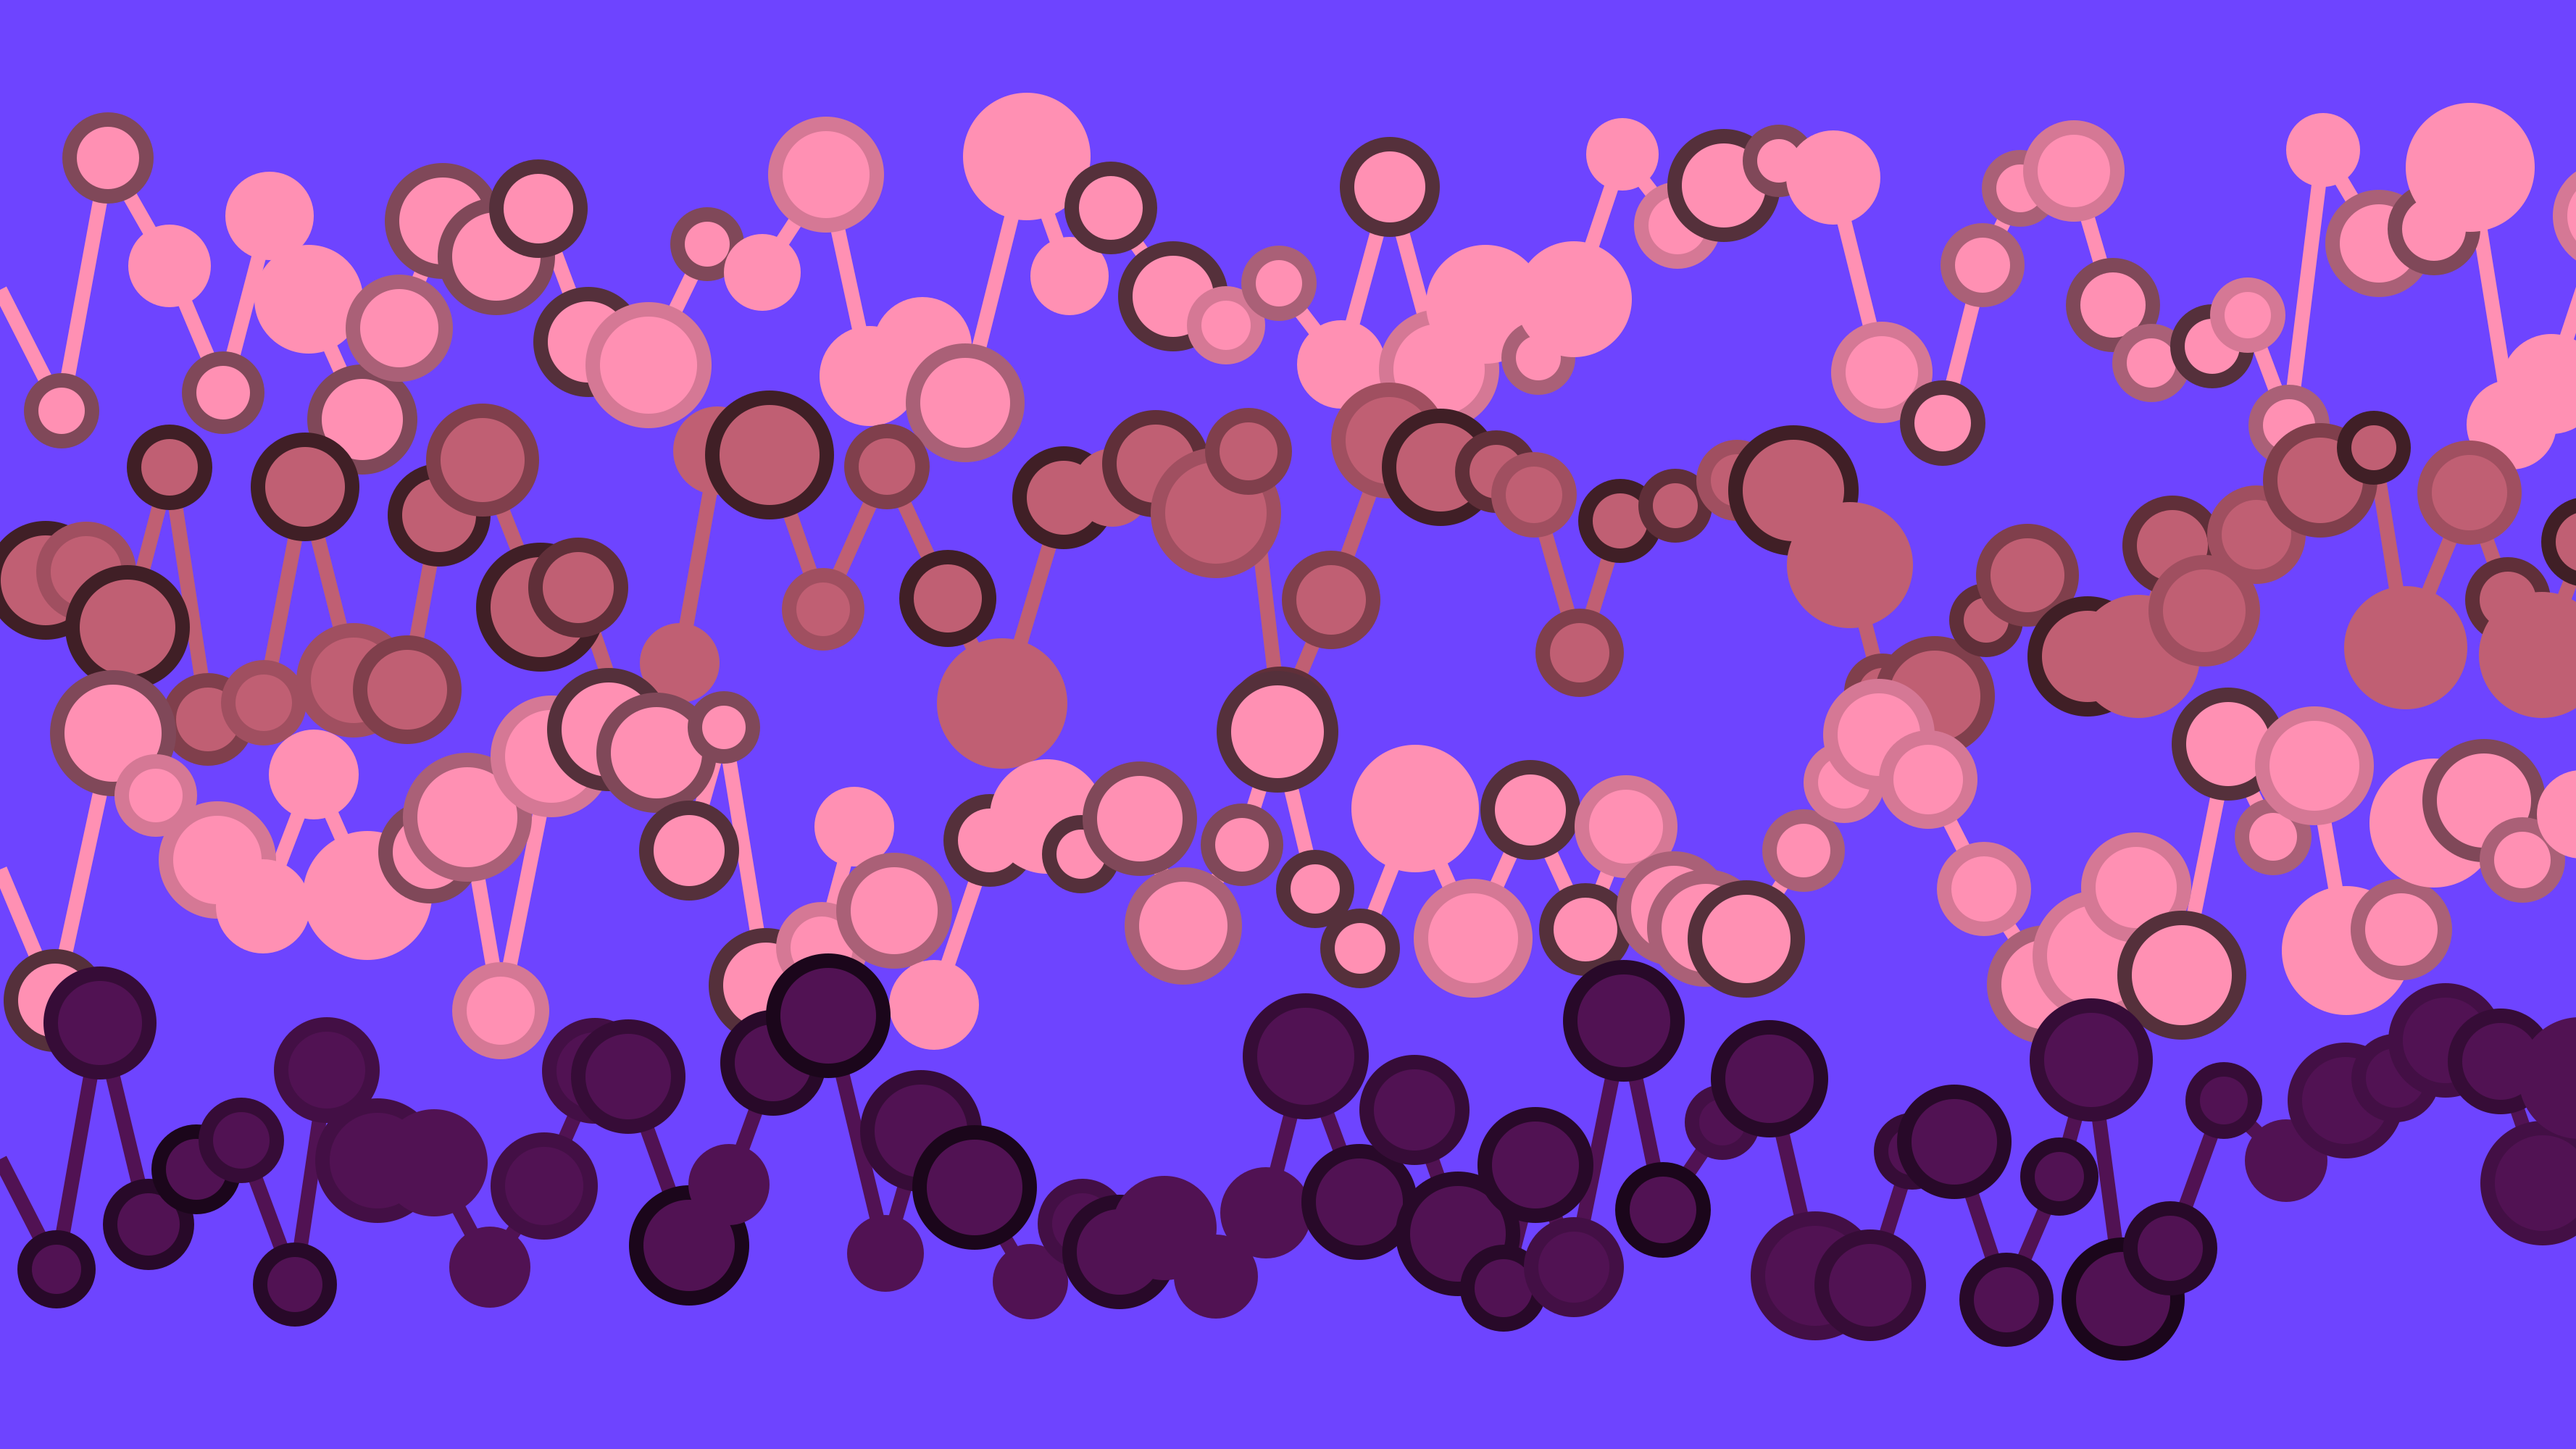
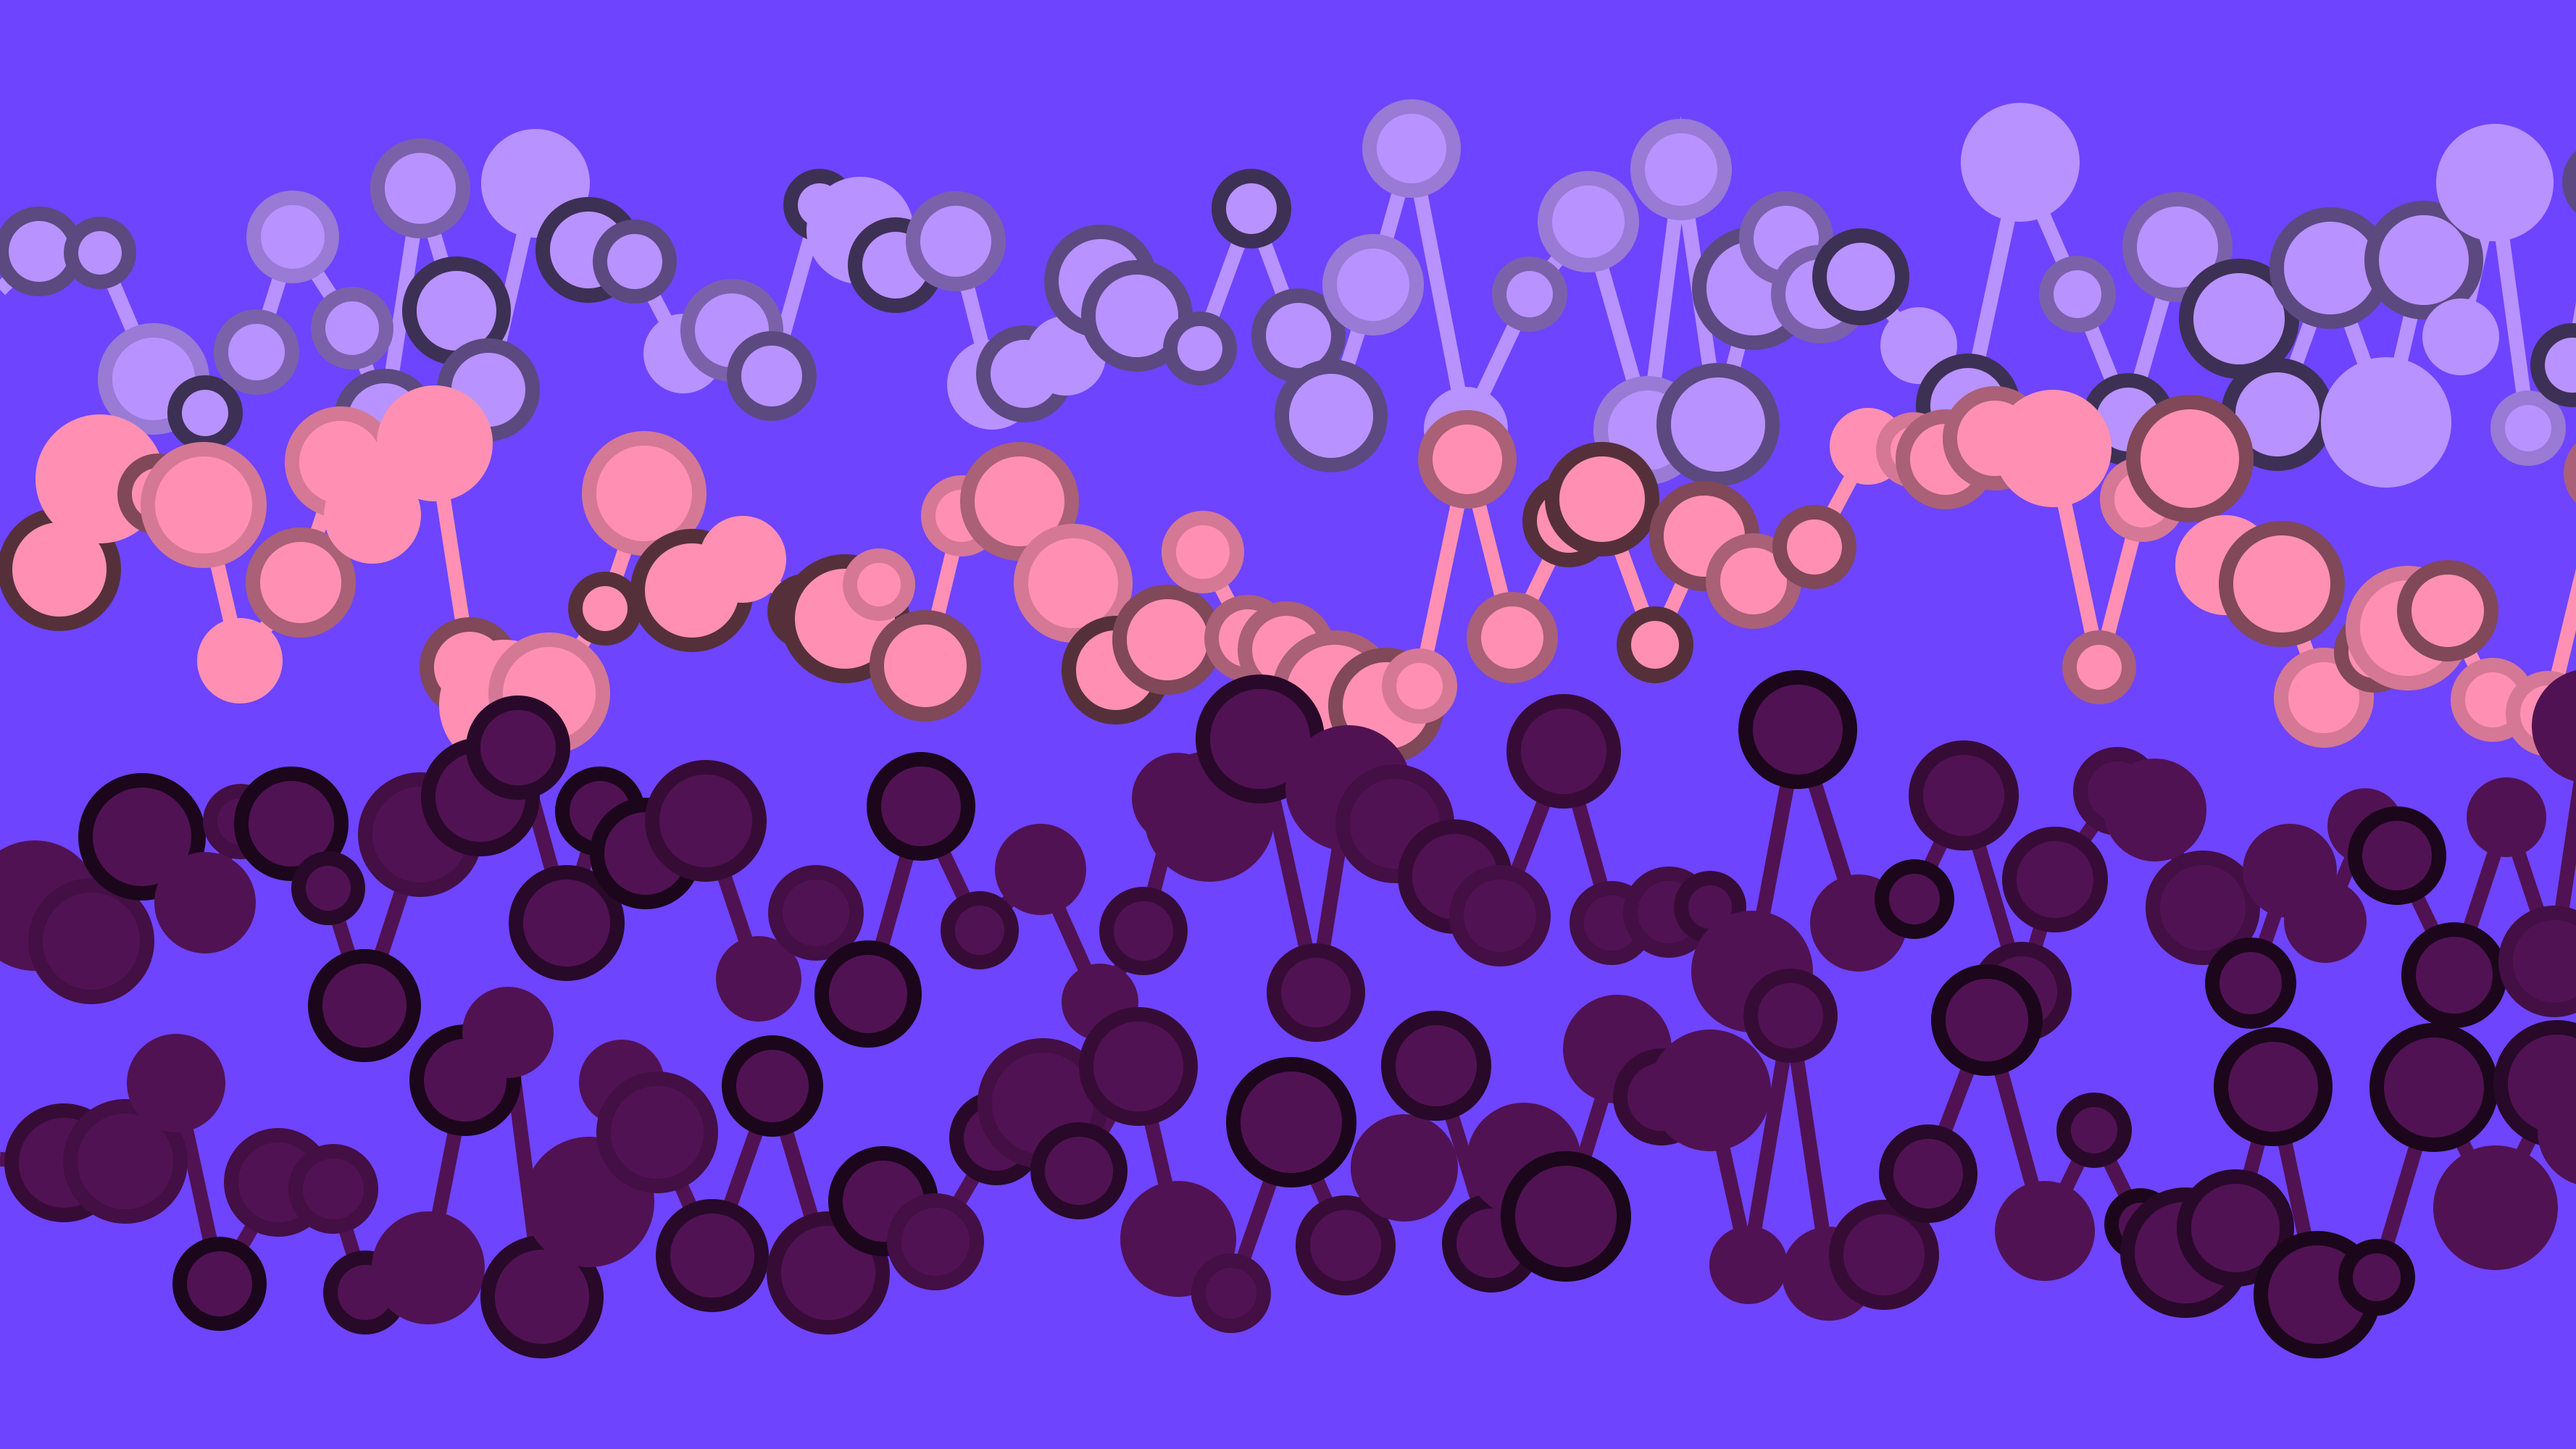
Another run.

diff --git a/squiggly-nodes/squiggly_nodes.py b/squiggly-nodes/squiggly_nodes.py
@@ -60,5 +60,5 @@ def main(filename="output.png", palette=random.choice(palettes.PALETTES), lines=
 
 
 if __name__ == "__main__":
-    for idx, l in enumerate([5, 10, 20, 50]):
+    for idx, l in enumerate([5, 10, 15, 20, 40]):
         main(filename="output-{}.png".format(idx), palette=random.choice(palettes.PALETTES), lines=l)
